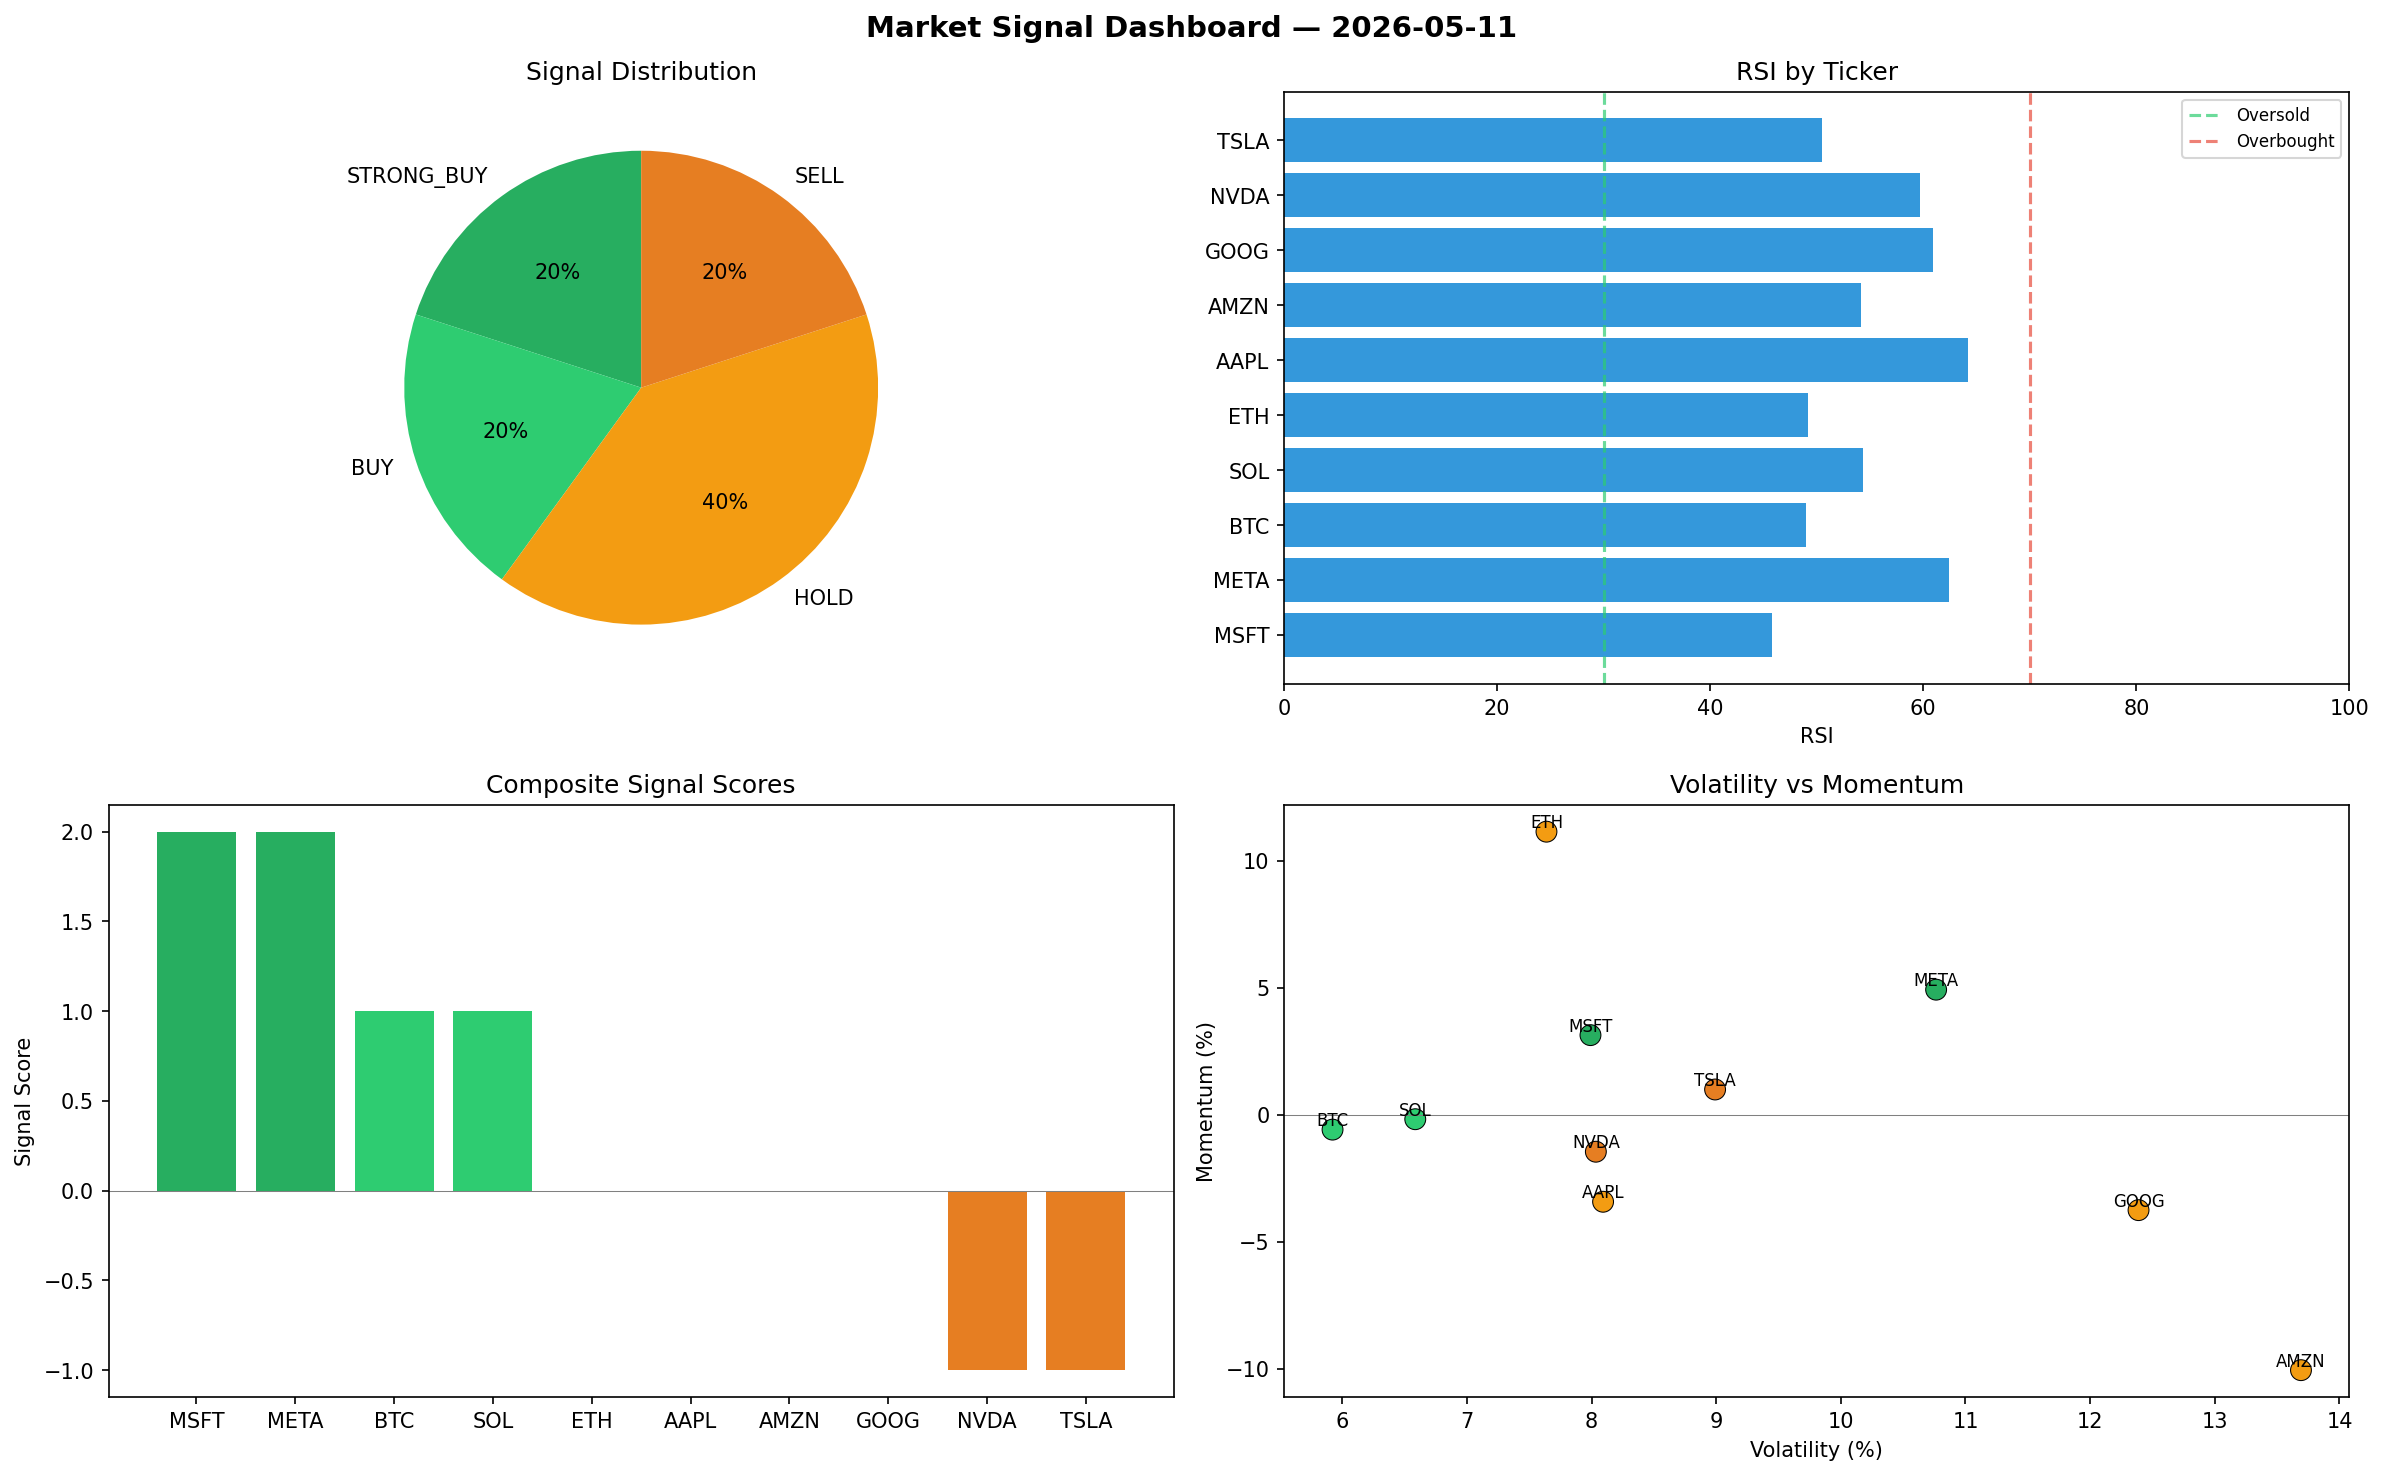
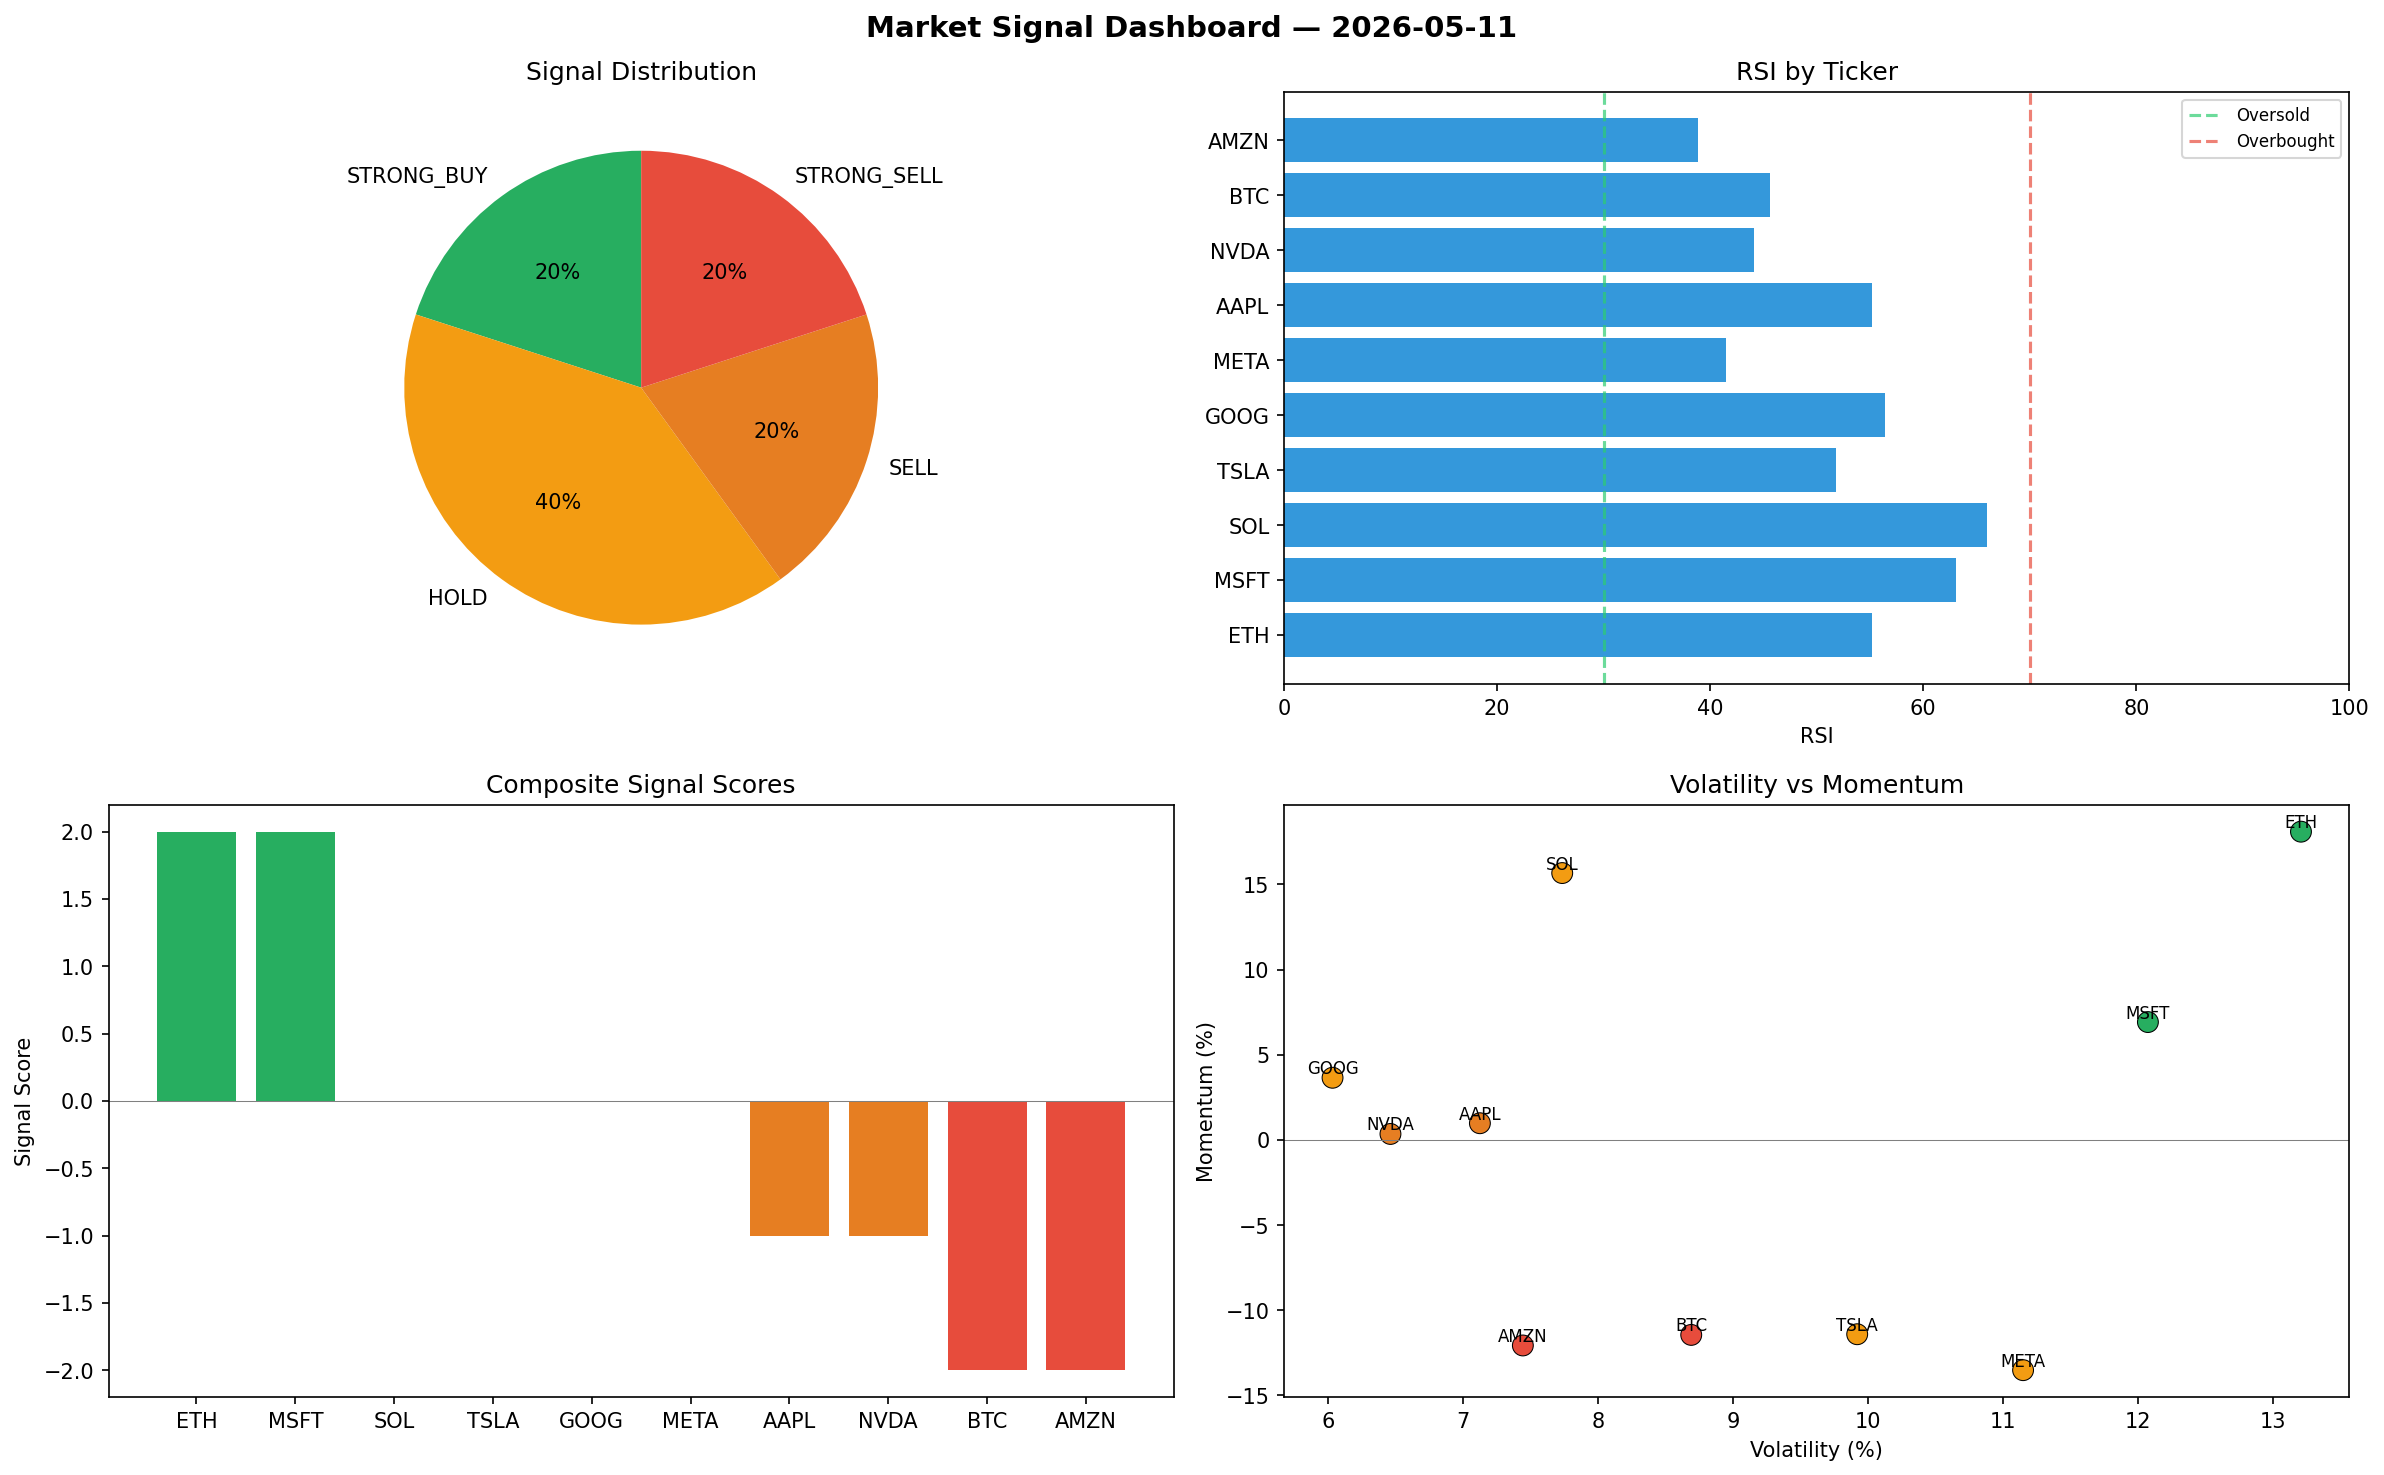
automated-bots: market signals 2026-05-11T17:08

diff --git a/logs/2026-05-11.md b/logs/2026-05-11.md
@@ -1,6 +1,6 @@
 # Market Signal Report — 2026-05-11
 
-**Run ID:** `803a61fd7f` | **Buy:** 4 | **Sell:** 2 | **Hold:** 4
+**Run ID:** `3a0791ea42` | **Buy:** 2 | **Sell:** 4 | **Hold:** 4
 
 ![Dashboard](2026-05-11_dashboard.png)
 
@@ -8,28 +8,28 @@
 
 | Ticker | Price | Signal | Score | RSI | Momentum | Confidence |
 |--------|-------|--------|-------|-----|----------|------------|
-| MSFT | $752.8 | **STRONG_BUY** | 2 | 45.82 | 0.0313 | 0.5 |
-| META | $299.85 | **STRONG_BUY** | 2 | 62.46 | 0.0492 | 0.5 |
-| BTC | $3091.79 | **BUY** | 1 | 49.0 | -0.0059 | 0.25 |
-| SOL | $208.34 | **BUY** | 1 | 54.38 | -0.0018 | 0.25 |
-| ETH | $1721.72 | **HOLD** | 0 | 49.16 | 0.1114 | 0.0 |
-| AAPL | $4555.38 | **HOLD** | 0 | 64.16 | -0.0343 | 0.0 |
-| AMZN | $638.11 | **HOLD** | 0 | 54.17 | -0.1006 | 0.0 |
-| GOOG | $3035.07 | **HOLD** | 0 | 60.89 | -0.0376 | 0.0 |
-| NVDA | $2139.58 | **SELL** | -1 | 59.7 | -0.0146 | 0.25 |
-| TSLA | $2235.91 | **SELL** | -1 | 50.46 | 0.0099 | 0.25 |
+| ETH | $4878.84 | **STRONG_BUY** | 2 | 55.23 | 0.181 | 0.5 |
+| MSFT | $1545.32 | **STRONG_BUY** | 2 | 63.11 | 0.0692 | 0.5 |
+| SOL | $1872.17 | **HOLD** | 0 | 65.94 | 0.1567 | 0.0 |
+| TSLA | $703.02 | **HOLD** | 0 | 51.78 | -0.1141 | 0.0 |
+| GOOG | $663.29 | **HOLD** | 0 | 56.39 | 0.0365 | 0.0 |
+| META | $934.3 | **HOLD** | 0 | 41.45 | -0.1352 | 0.0 |
+| AAPL | $1651.15 | **SELL** | -1 | 55.14 | 0.0098 | 0.25 |
+| NVDA | $4062.99 | **SELL** | -1 | 44.15 | 0.0035 | 0.25 |
+| BTC | $378.02 | **STRONG_SELL** | -2 | 45.65 | -0.1145 | 0.5 |
+| AMZN | $4649.94 | **STRONG_SELL** | -2 | 38.88 | -0.1207 | 0.5 |
 
 ## Delta vs Yesterday
 
 | Ticker | Today | Yesterday | Price Change | Signal Changed |
 |--------|-------|-----------|-------------|----------------|
-| MSFT | STRONG_BUY | STRONG_SELL | 📉 -72.2% | ⚠ YES |
-| META | STRONG_BUY | HOLD | 📉 -94.4% | ⚠ YES |
-| BTC | BUY | STRONG_BUY | 📉 -20.46% | ⚠ YES |
-| SOL | BUY | STRONG_SELL | 📉 -83.63% | ⚠ YES |
-| ETH | HOLD | STRONG_SELL | 📉 -0.73% | ⚠ YES |
-| AAPL | HOLD | SELL | 📈 3.61% | ⚠ YES |
-| AMZN | HOLD | HOLD | 📉 -85.46% | — |
-| GOOG | HOLD | STRONG_BUY | 📉 -3.98% | ⚠ YES |
-| NVDA | SELL | STRONG_SELL | 📈 60.85% | ⚠ YES |
-| TSLA | SELL | HOLD | 📉 -49.18% | ⚠ YES |
+| ETH | STRONG_BUY | STRONG_SELL | 📈 181.3% | ⚠ YES |
+| MSFT | STRONG_BUY | STRONG_SELL | 📉 -42.94% | ⚠ YES |
+| SOL | HOLD | STRONG_SELL | 📈 47.08% | ⚠ YES |
+| TSLA | HOLD | HOLD | 📉 -84.02% | — |
+| GOOG | HOLD | STRONG_BUY | 📉 -79.02% | ⚠ YES |
+| META | HOLD | HOLD | 📉 -82.55% | — |
+| AAPL | SELL | SELL | 📉 -62.45% | — |
+| NVDA | SELL | STRONG_SELL | 📈 205.45% | ⚠ YES |
+| BTC | STRONG_SELL | STRONG_BUY | 📉 -90.27% | ⚠ YES |
+| AMZN | STRONG_SELL | HOLD | 📈 5.96% | ⚠ YES |
